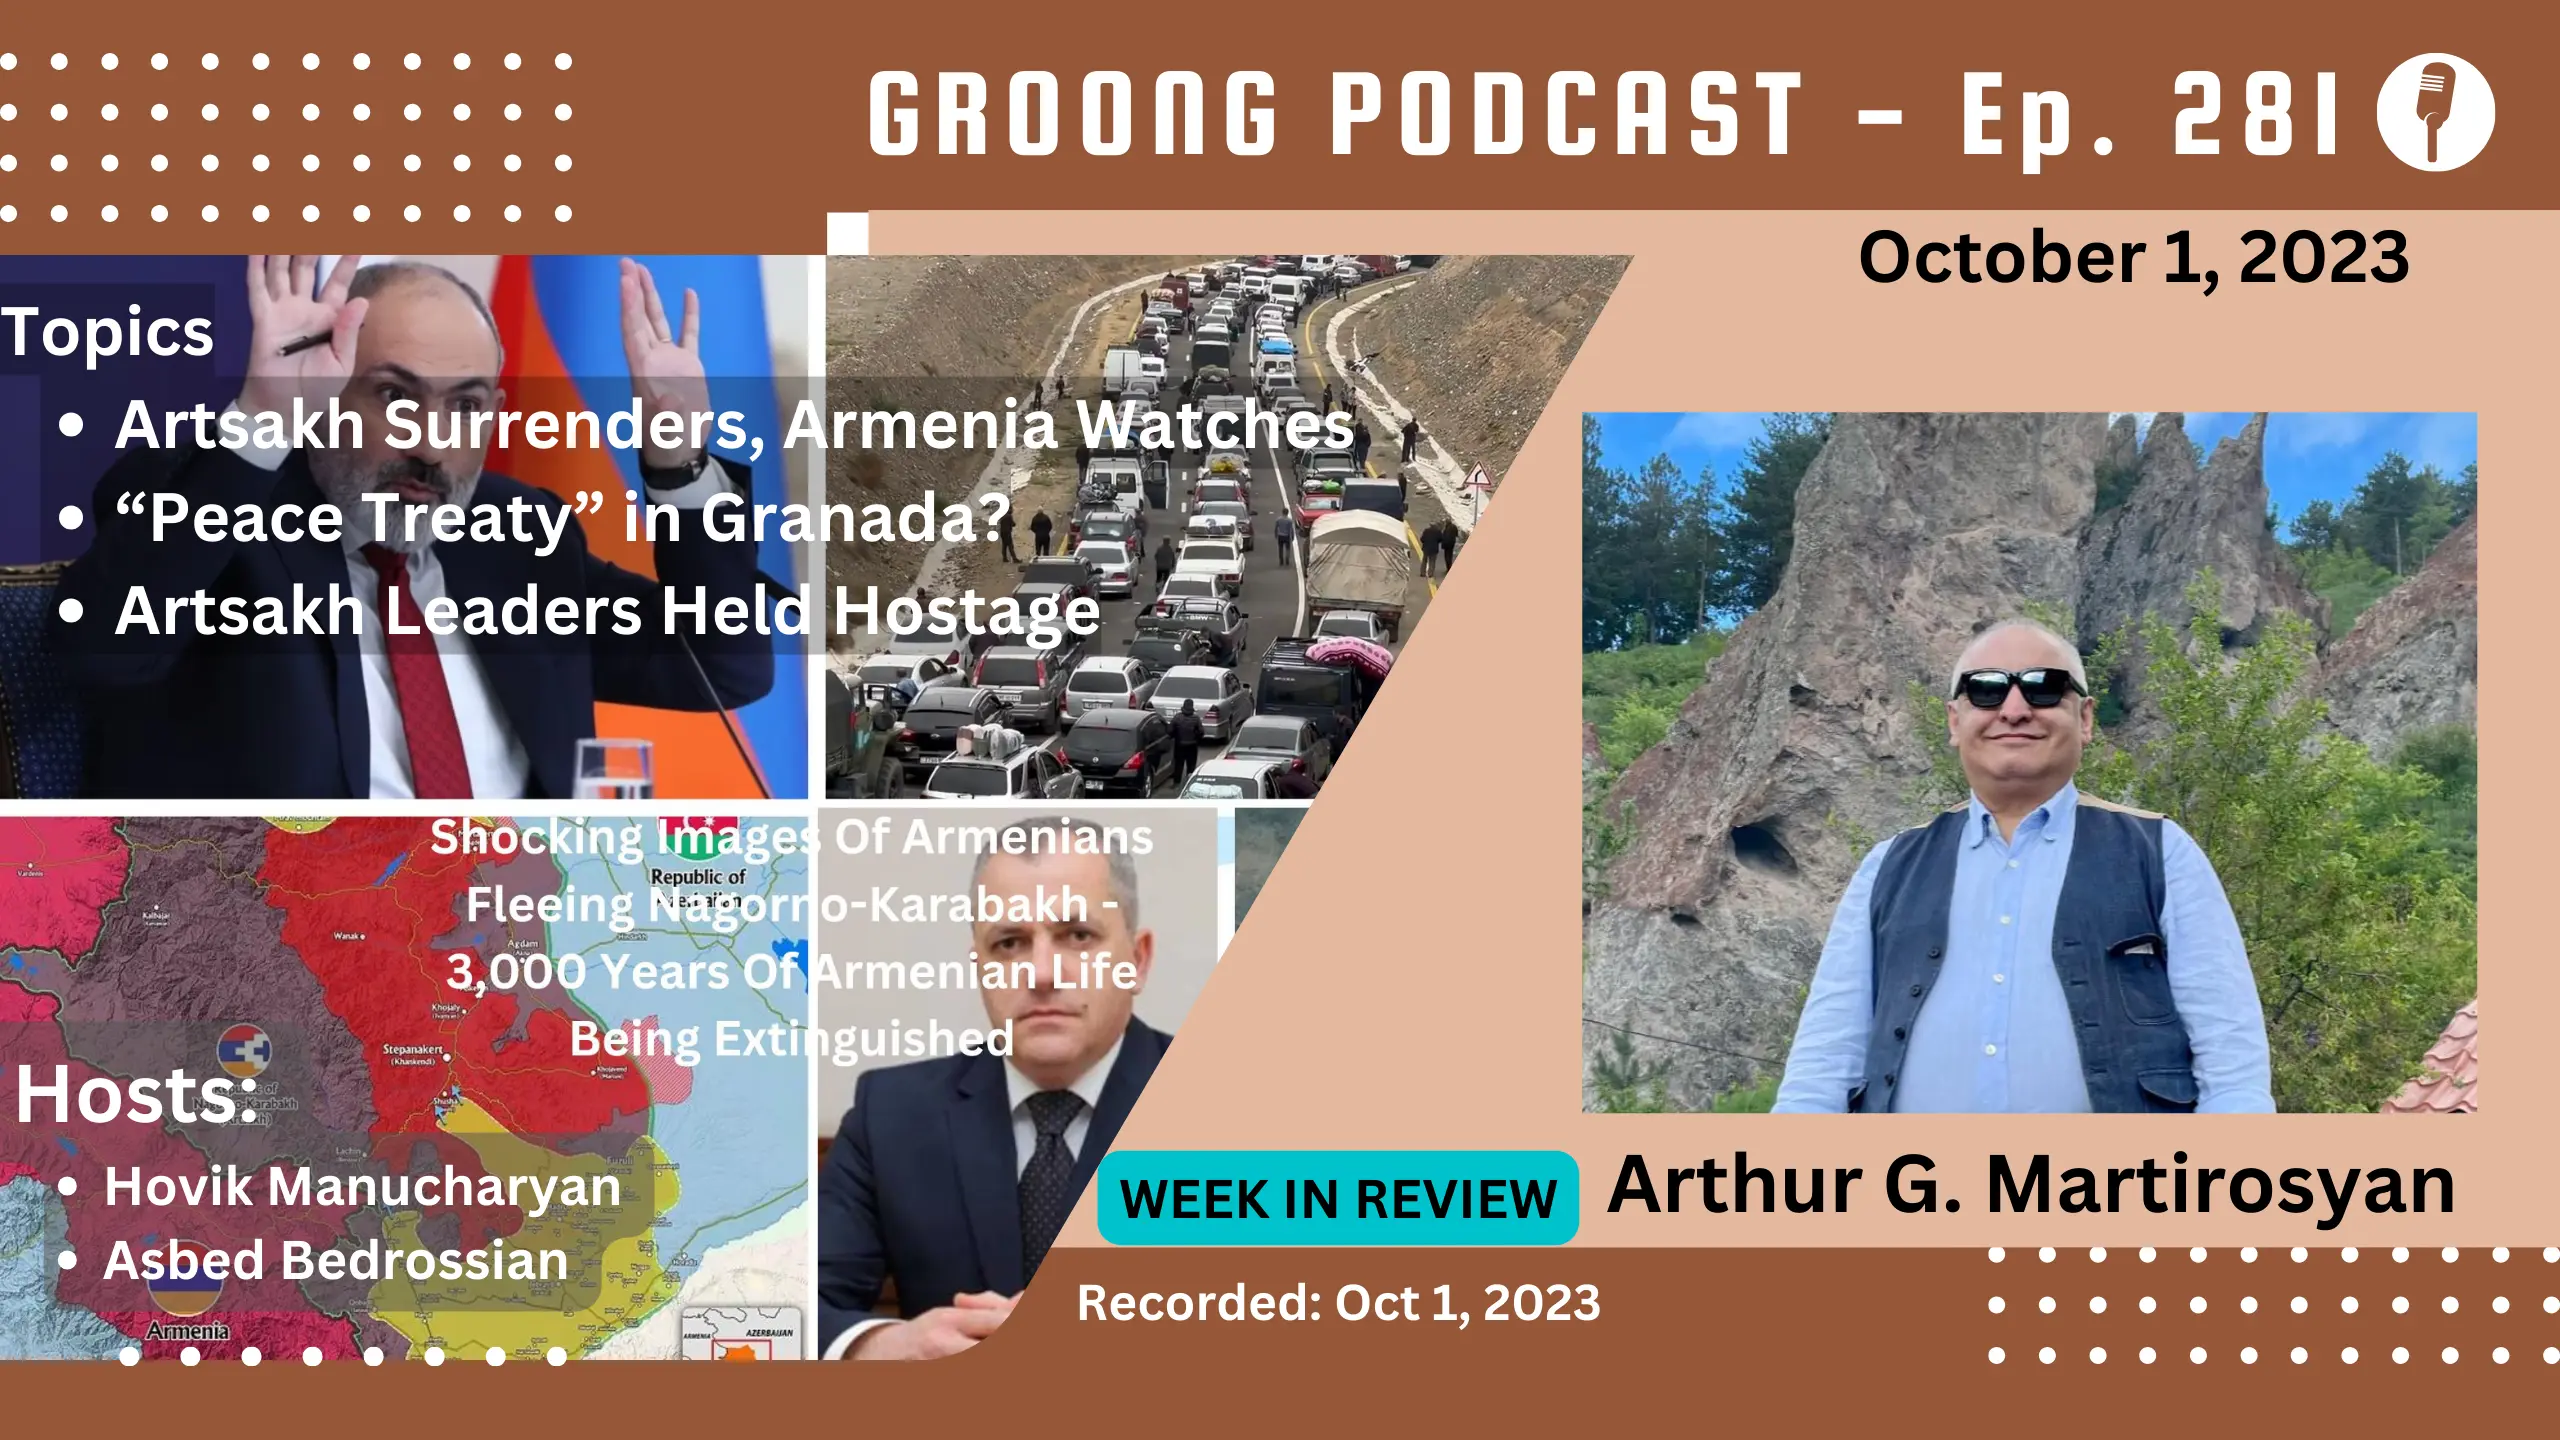
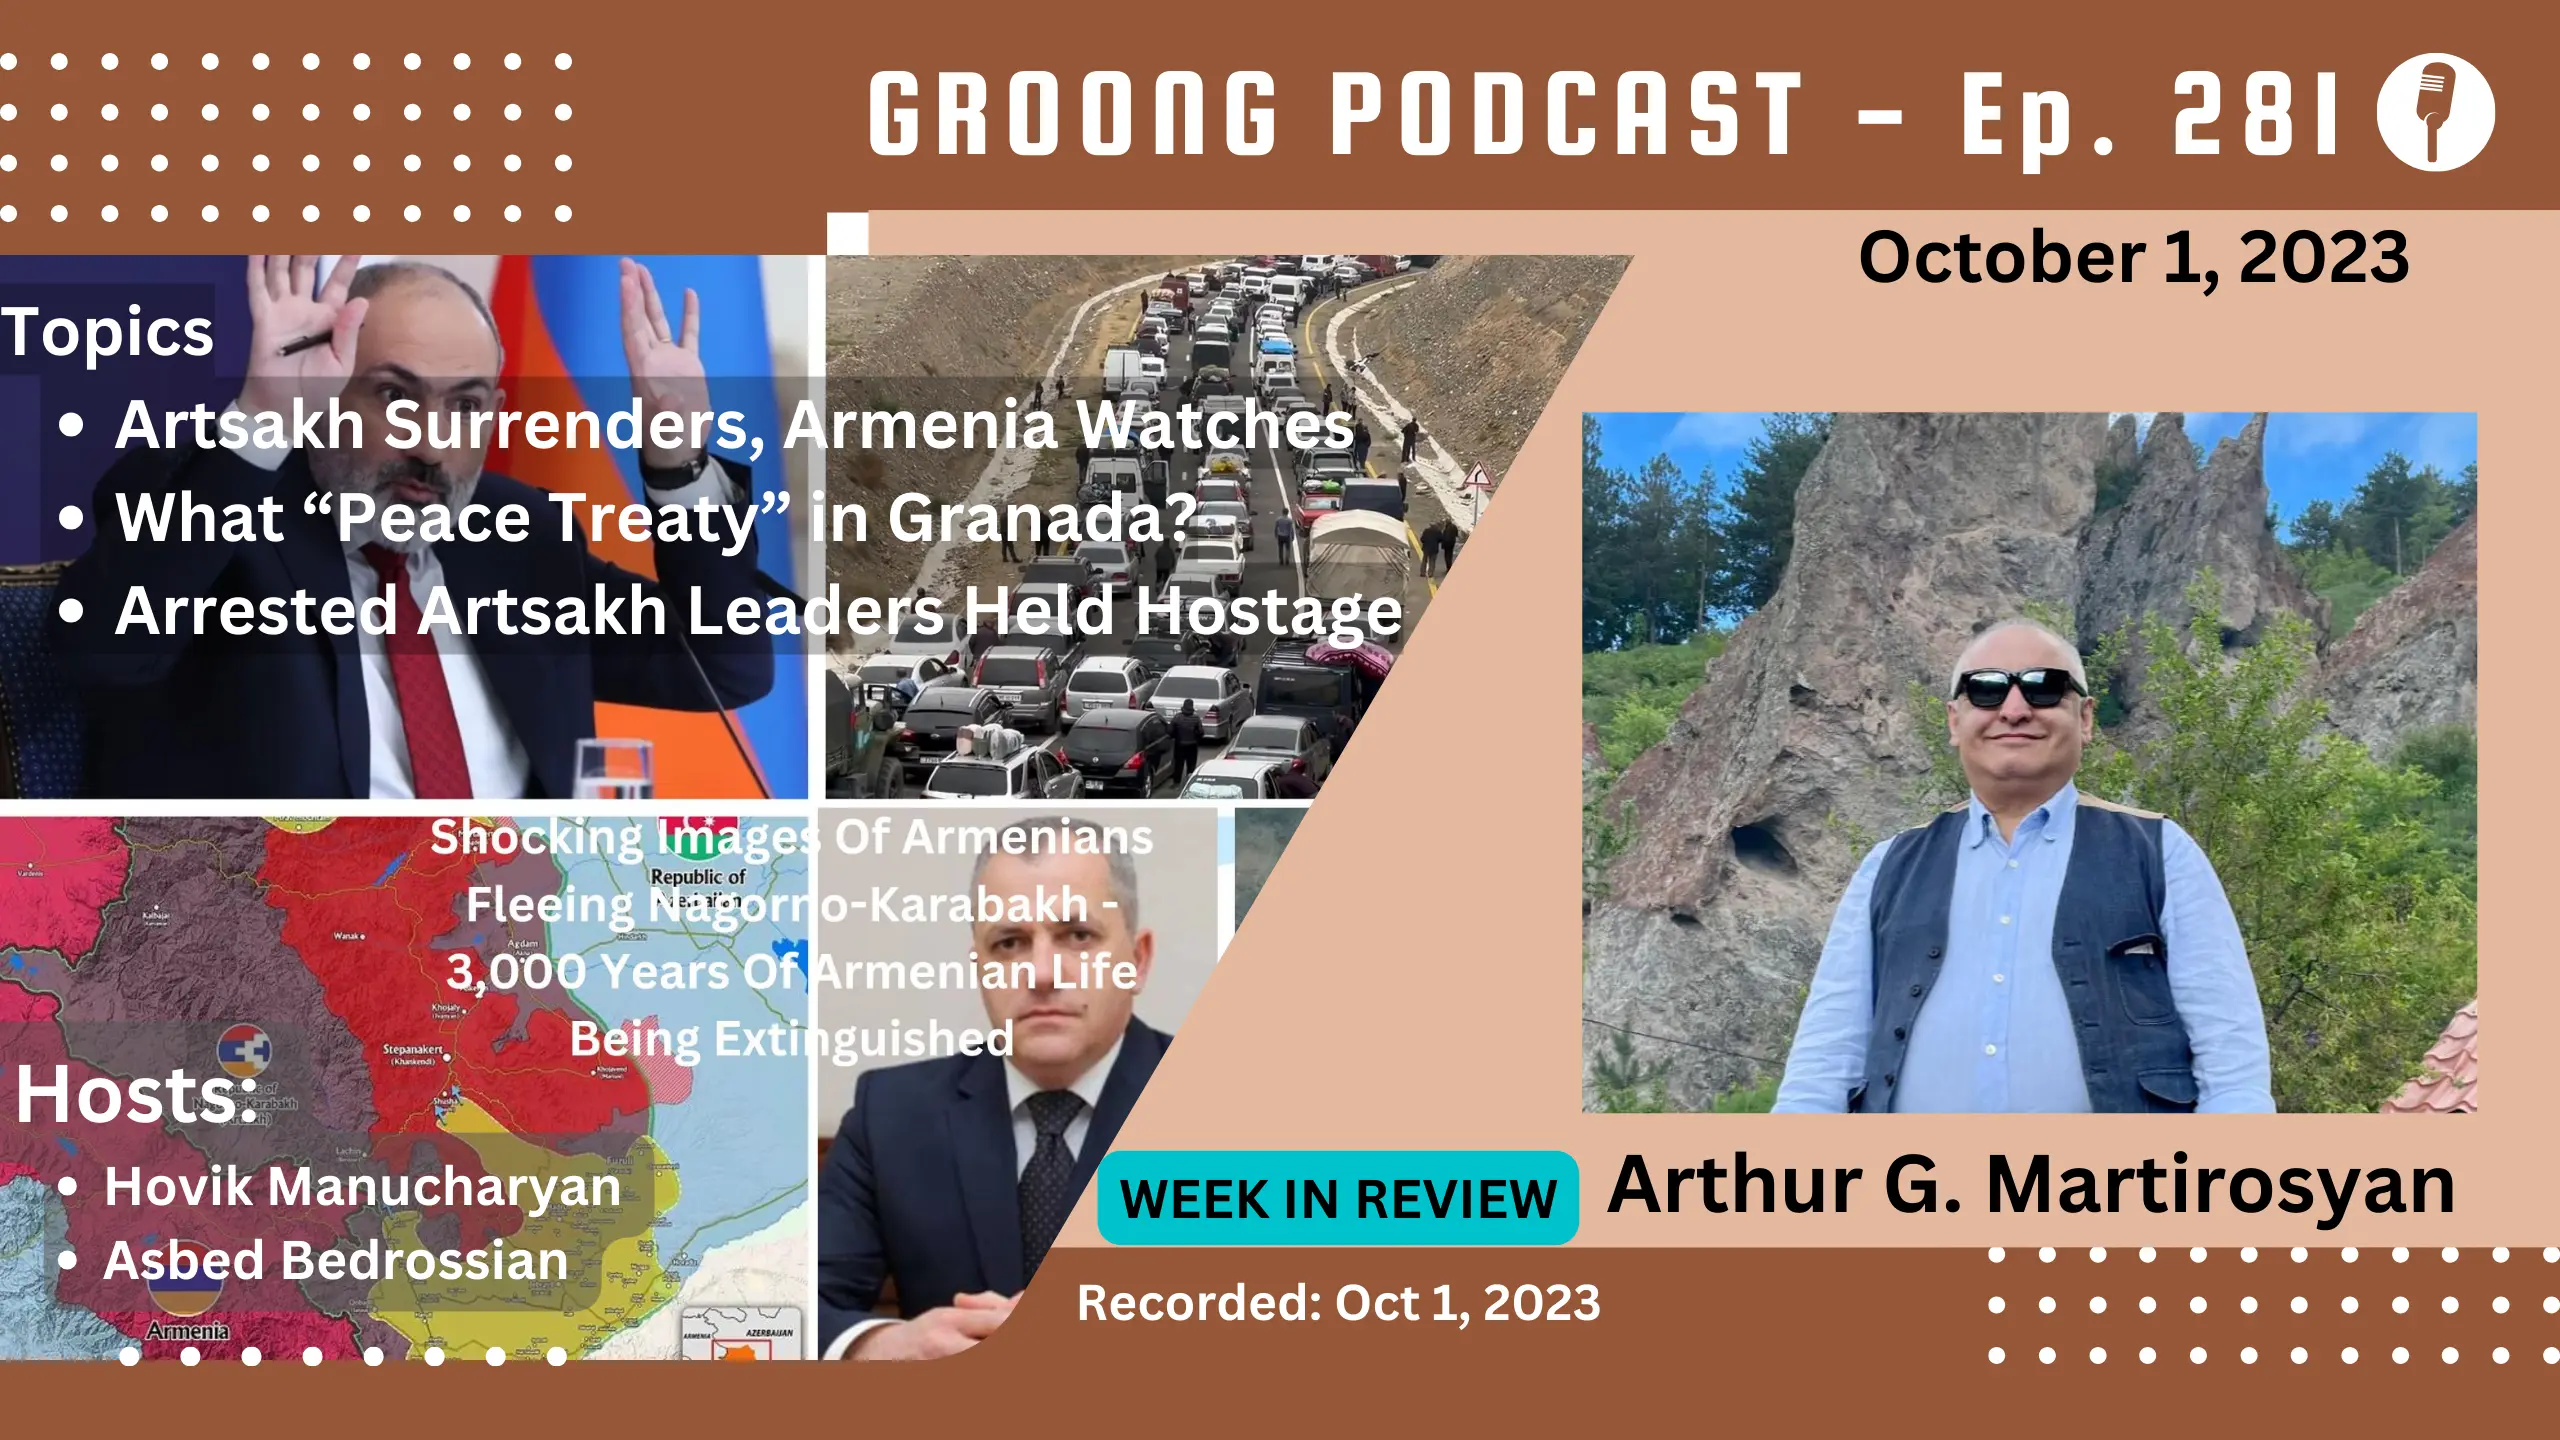
Staging EP 281

Changed region(s): [[0.0312, 0.3125, 0.5625, 0.4688]]

diff --git a/content/episode/281-arthur-martirosyan-artsakh-surrenders-armenia-granada-peace-treaty-karabakh-leaders-hostage.md b/content/episode/281-arthur-martirosyan-artsakh-surrenders-armenia-granada-peace-treaty-karabakh-leaders-hostage.md
@@ -1,0 +1,102 @@
++++
+Date = 2023-10-02T23:00:00+04:00
+upcoming = true
+
+podcast_file = ""
+podcast_bytes = ""
+podcast_duration = ""
+youtube = ""
+
+episode = "281"
+aliases = ["/281"]
+
+episode_image = "img/episode/281/thumbnail-281.webp"
+episode_banner = "img/episode/281/banner-281.webp"
+images = ["img/episode/281/banner-281.webp"]
+
+title = "Arthur G Martirosyan - Artsakh Surrenders, Armenia Watches | What 'Peace Treaty' in Granada? | Arrested Artsakh Leaders Held Hostage"
+subtitle = "Armenian News Network Groong - Oct 1, 2023"
+
+guests = ["amartirosyan"]
+hosts = ["hovik", "asbed"]
+
+
+series = ["wir"]
+categories = ["Armenia", "Artsakh", "Politics"]
+explicit = "no" # values are "yes" or "no"
+tags = ["Arthur G Martirosyan", "Artsakh", "Nagorno Karabakh", "Armenia", "Azerbaijan", "Russia", "Turkey", "Genocide", "Exodus", "Dispossession", "Indigenous People", "Armenians Flee", "Samvel Shahramanyan", "USA", "United States", "EU", "European Union", "Charles Michel", "Nikol Pashinyan", "Granada", "Peace Treaty", "Hostage"]
+
+Description = """
+
+#### Guest:
+* [Arthur G. Martirosyan](/guest/amartirosyan)
+
+#### Topics:
+* Artsakh Surrenders, Armenia Watches
+* What "Peace Treaty" in Granada?
+* Arrested Artsakh Leaders Held Hostage
+
+Episode 281 | Recorded: October 1, 2023
+"""
+
++++
+
+## Artsakh Surrenders As Armenia Watches
+
+We have warned our listeners for three years now that Armenia under Pashinyan is headed down a disastrous roadmap and path of surrendering Artsakh, not protecting the ancestral lands of the indigenous Armenians of Artsakh, and leading to their depopulation.
+
+Pashinyan’s talk of the “rights and security” of Artsakhtsis is now clear to everyone: it was bullshit, he hasn’t raised a finger to defend them. The EU’s talk of “rights and security” was bullshit, we haven’t heard or seen anything from the hypocrite Charles Michel, and the same from the US.
+
+So far, the the west’s “lowering the bar on Artsakh” has meant that they wanted to allow Azerbaijan to commit and get away with Genocide.
+
+In the past week, over 100,000 Armenians have forcibly left their homeland of thousands of years. Anywhere else in this world this is called genocide, but because major power interests dictate otherwise, the world is silent, 
+
+**Questions:**
+* Your thoughts?
+* Is the Artsakh conflict over? Is Artsakh as we know it since the fall of the Soviet Union finished?
+
+Abandoned by everyone, first and foremost by Pashinyan’s Armenia, Artsakh president Samvel Shahramanyan met with Azeri authorities and signed the dissolution of Artsakh as a republic and the disbanding of Artsakh’s government and defense forces.
+
+**Question:**
+* Many experts say that officials do not have the right to take down decisions that were made by the people, by elections and referendums. So is Shahramanyan’s dissolution technically valid, or is it just that the Azeris have the power right now, and it’s either what they say, or you die?
+
+Since December 2022, Artsakhtsis endured 9 months of a blockade, followed by an intense 2-day war, only to quickly bury their dead and evacuate their homeland. Families had to leave knowing that their loved ones are still missing or unaccounted for from the latest fighting. Samvel Shahramanyan and a small team have [stayed behind](https://www.facebook.com/ArtsakhInformation/posts/pfbid02H9GXKjXQ3cAmqZ5rXVz7KsTrUzVEK3kXTE3aVCtocZT1jSSZGprnzFgzCPxuJJXMl), to continue the search for missing bodies.
+
+Hindsight is 20-20, but many Artsakhtsis are questioning the decision to resist the blockade for 9 months, then to lose so many lives, only to completely capitulate and be expelled from their homes. 
+
+We know there were reports that the West was urging Stepanakert to negotiate on so-called “reintegration” back in July., and clearly the authorities in Artsakh couldn’t expect help from Yerevan.
+
+**Questions**:
+* How did the Artsakh authorities intend to hold back the Azeris? What made them decide to reject Baku’s initial demands, as painful and humiliating as they were? Should Artsakh’s leadership have accepted to go to Yevlakh in July? 
+
+
+## What “Peace Treaty” in Granada?
+
+As Artsakhtsis are looking for shelter in refugee camps, and the blood has still not dried on the ground in Artsakh, Armenian officials such as Alen Simonyan are apparently very [optimistic](https://news.am/eng/news/783039.html) that a so-called “peace treaty” is close. There are rumors that it could be signed as early as October 5, when Aliyev and Pashinyan meet in Grenada.
+
+**Questions**:
+* What would be the parameters of such a peace treaty?
+    * Corridors?
+    * Return of Azeris to Armenia?
+* Is it in Armenia’s interests to rush to sign this treaty? If not, does Armenia have a way to not sign it?
+
+
+## Arrested Artsakh Leaders Held Hostage
+
+The exodus from Artsakh was accompanied by detention of key Armenian leaders.
+
+* Ruben Vardanyan was arrested as he was trying to cross the Hakari bridge checkpoint.
+* Major General Davit Manukyan, First Deputy Commander of the Artsakh Defense Army (and brother of Armenian MP Gegham Manukyan) was also arrested.
+* Lt. General Levon Mnatsakanyan, former Commander of the Artsakh Defense Army was also arrested.
+* Davit Babayan, former foreign minister of Artsakh and later advisor to president Arayik Harutyunyan, turned himself in, arguing that not doing so would cause damage to people around him.
+
+There are reports that Azerbaijan has compiled a list of hundreds of statesmen and military leaders, seeking their arrest. So it’s quite possible that the number of detainees may increase.
+
+Add to this all the existing POWs and civilians held by Baku since 2020.
+
+**Question**:
+* Arthur, what can be done to get our men back? Is there a difference between Ruben Vardanyan for instance vs. a general vs. a regular rank and file soldier? 
+
+# Wrap-up
+
+We hope you found our [Week in Review](https://podcasts.groong.org/) helpful. We invite your feedback and your suggestions, you can [find us](https://linktr.ee/groong) on most social media and podcast platforms. Thanks to Laura Osborn for the music on our podcasts.
